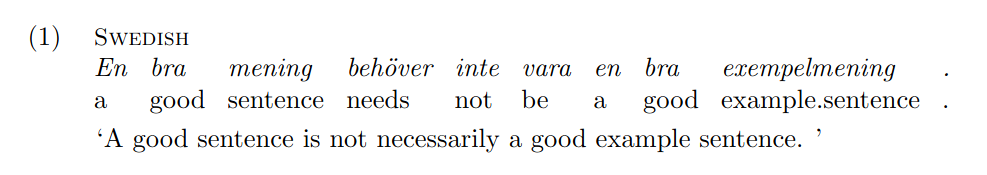
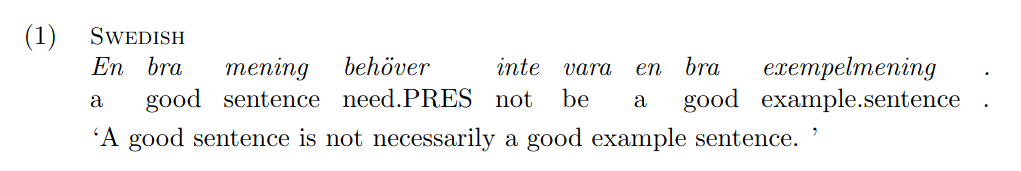
edit gloss example

diff --git a/lists/latex.md b/lists/latex.md
@@ -73,7 +73,7 @@ Use as:
     \label{utbildning}
     \digloss[preamble=Swedish]
         {En bra mening behöver inte vara en bra exempelmening .}
-        {a good sentence needs not be a good example.sentence .}
+        {a good sentence need.PRES not be a good example.sentence .}
         {A good sentence is not necessarily a good example sentence. }
 \end{example}
 ```
